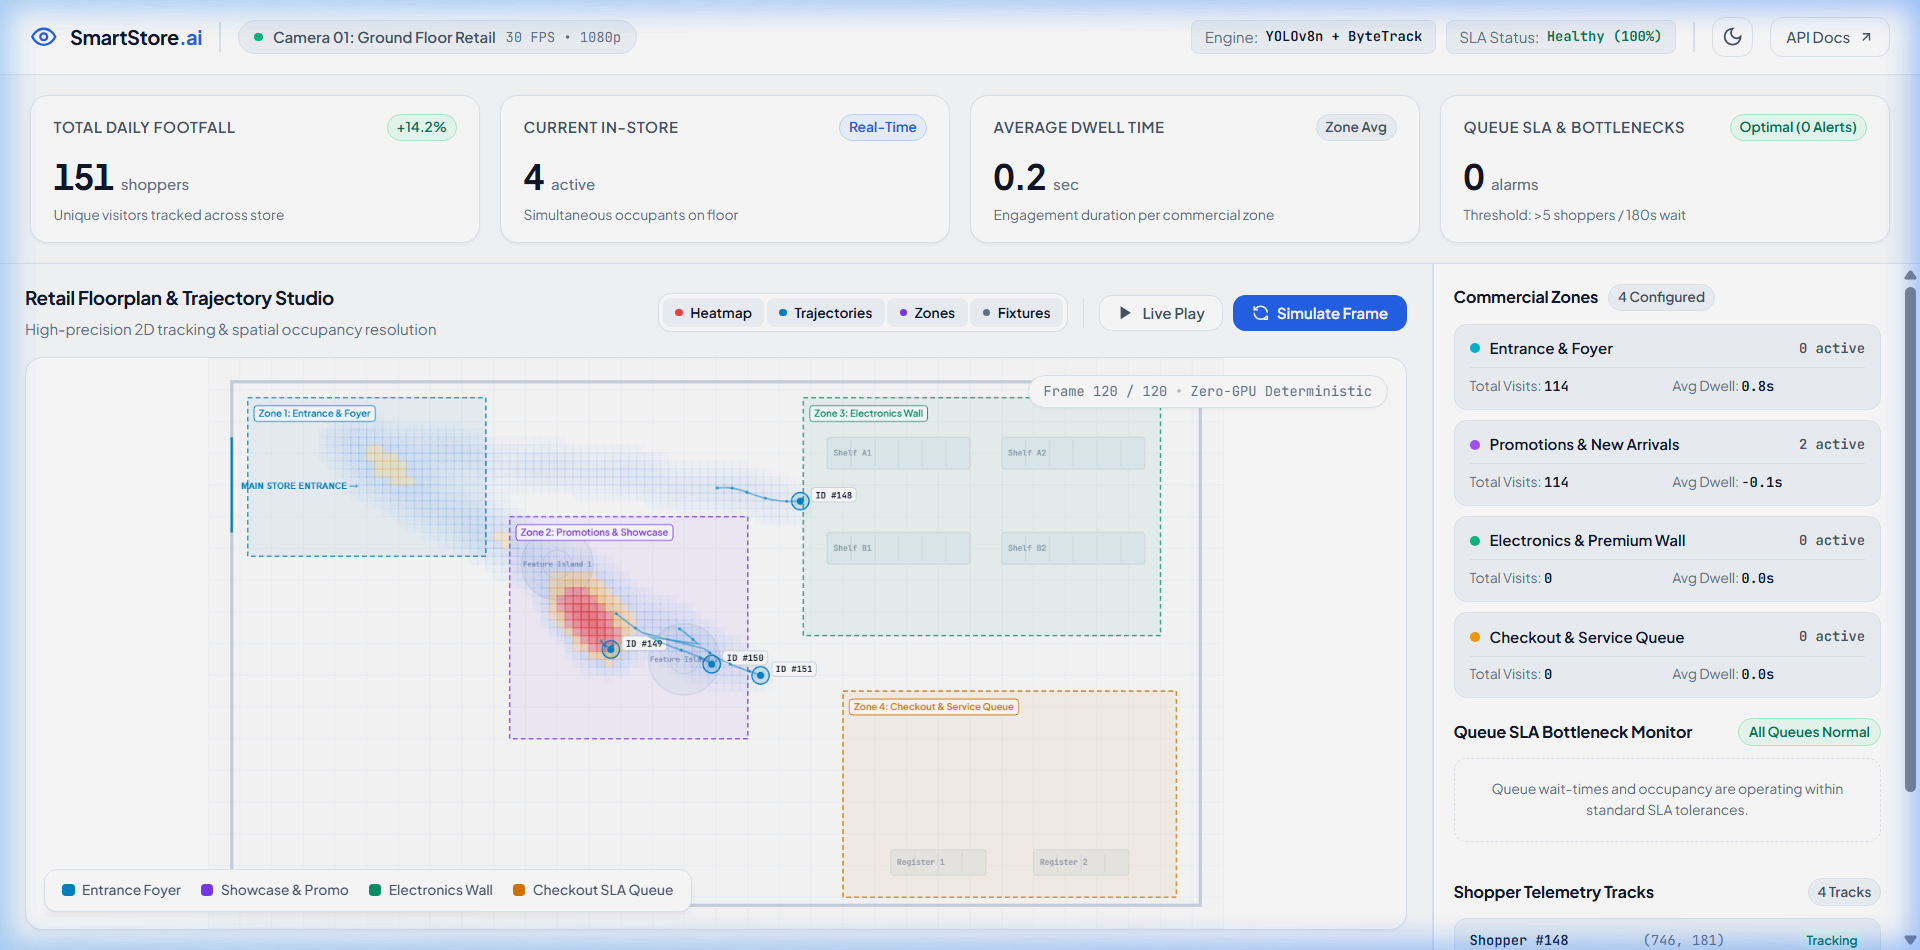
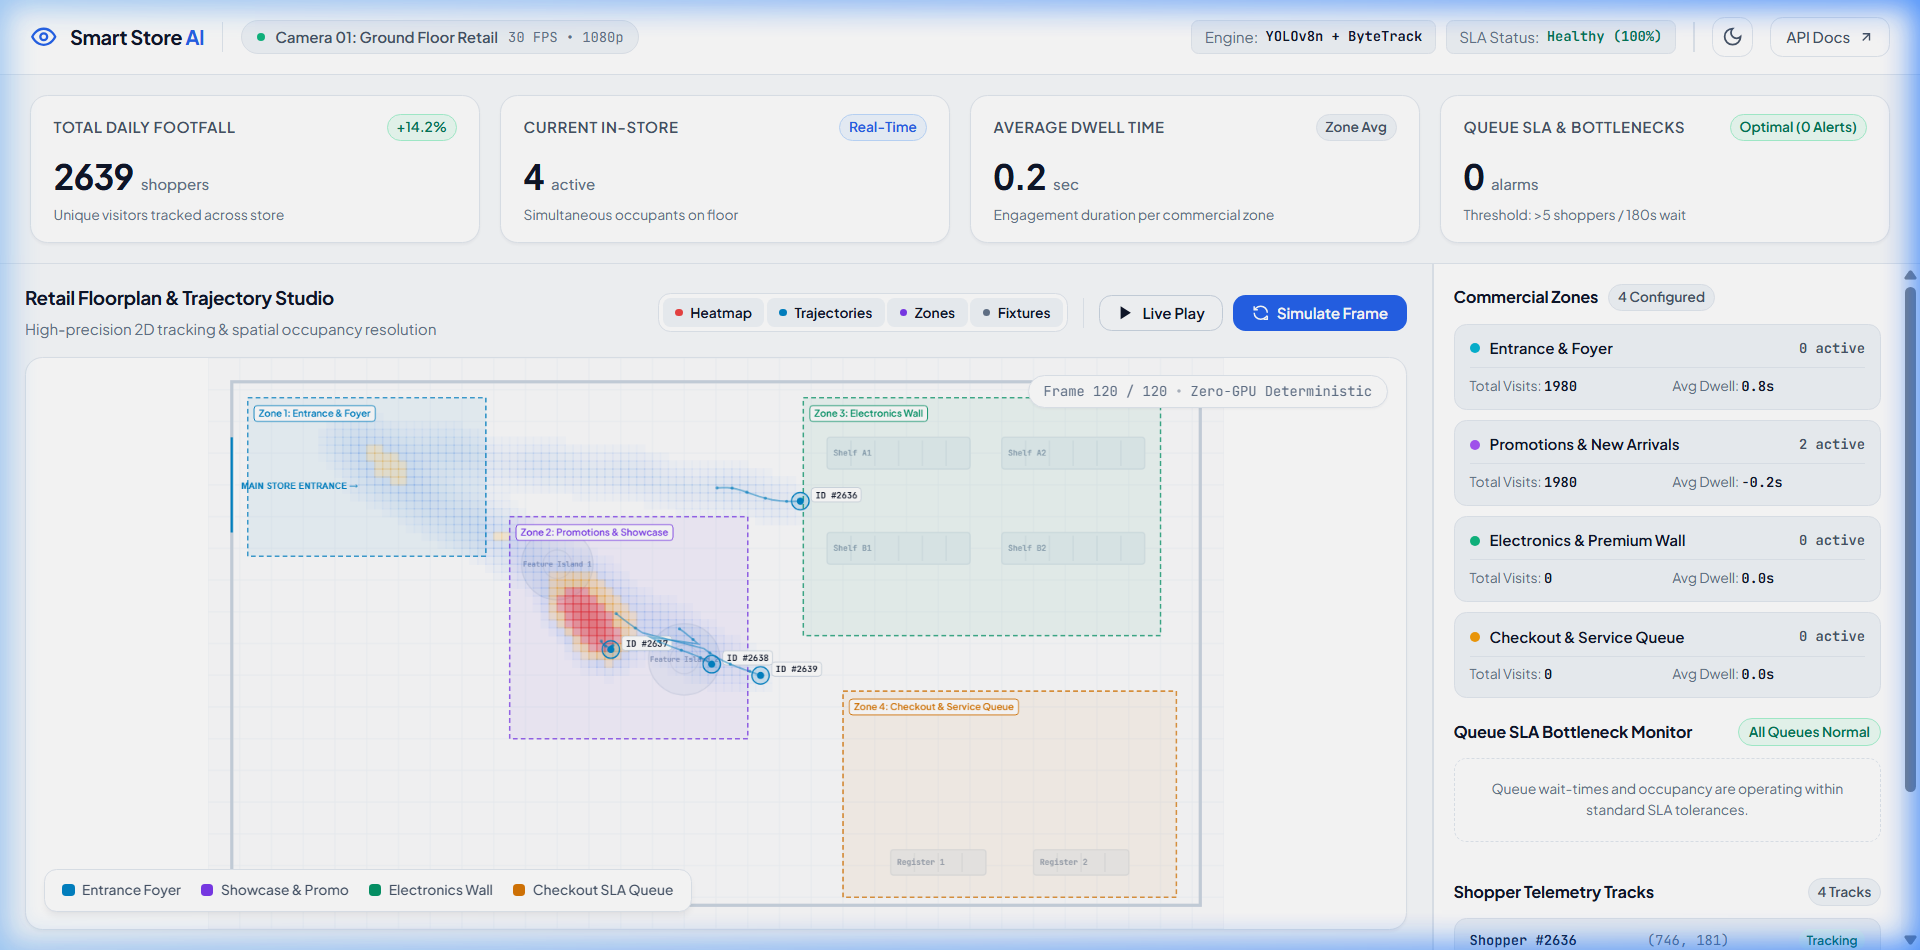
fix(brand): format product name as 'Smart Store AI' with proper spacing and remove domain suffix

diff --git a/src/smart_store_analytics/web/templates/index.html b/src/smart_store_analytics/web/templates/index.html
@@ -3,7 +3,7 @@
 <head>
     <meta charset="UTF-8">
     <meta name="viewport" content="width=device-width, initial-scale=1.0">
-    <title>SmartStore Vision AI | Retail Spatial Intelligence</title>
+    <title>Smart Store AI | Retail Spatial Intelligence</title>
     <link rel="preconnect" href="https://fonts.googleapis.com">
     <link rel="preconnect" href="https://fonts.gstatic.com" crossorigin>
     <link href="https://fonts.googleapis.com/css2?family=Plus+Jakarta+Sans:wght@400;500;600;700;800&family=JetBrains+Mono:wght@400;500;600&display=swap" rel="stylesheet">
@@ -19,7 +19,7 @@
                         <path d="M2 12s3-7 10-7 10 7 10 7-3 7-10 7-10-7-10-7Z"/>
                         <circle cx="12" cy="12" r="3"/>
                     </svg>
-                    <span class="brand-name">SmartStore<span class="brand-accent">.ai</span></span>
+                    <span class="brand-name">Smart Store <span class="brand-accent">AI</span></span>
                 </div>
                 <div class="divider-v"></div>
                 <div class="stream-pill">

diff --git a/src/smart_store_analytics/web/static/css/style.css b/src/smart_store_analytics/web/static/css/style.css
@@ -1,5 +1,5 @@
 /* ==============================================================================
-   SMARTSTORE.AI — HUMAN-CRAFTED ENTERPRISE DESIGN SYSTEM
+   SMART STORE AI — HUMAN-CRAFTED ENTERPRISE DESIGN SYSTEM
    Inspired by Linear, Stripe, and Apple. Built for clarity, comfort, and focus.
    ============================================================================== */
 

diff --git a/src/smart_store_analytics/web/static/js/app.js b/src/smart_store_analytics/web/static/js/app.js
@@ -1,5 +1,5 @@
 /**
- * SmartStore.ai — Human-Crafted Retail Spatial Intelligence & Trajectory Studio
+ * Smart Store AI — Human-Crafted Retail Spatial Intelligence & Trajectory Studio
  * Pure Vanilla JavaScript, High-DPI Canvas Rendering, Smooth Animations & Theme Management
  */
 
